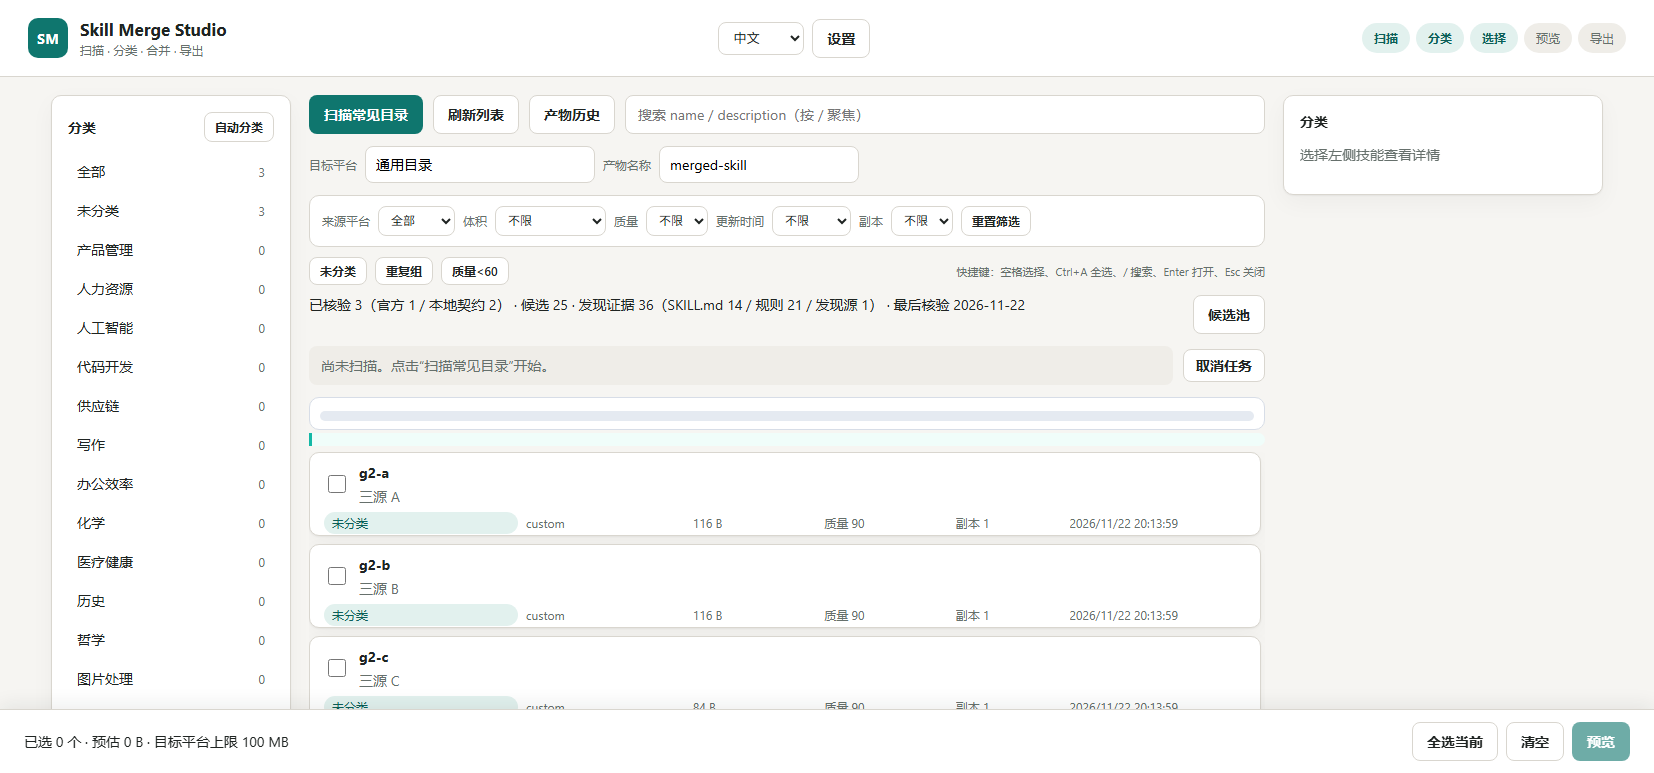
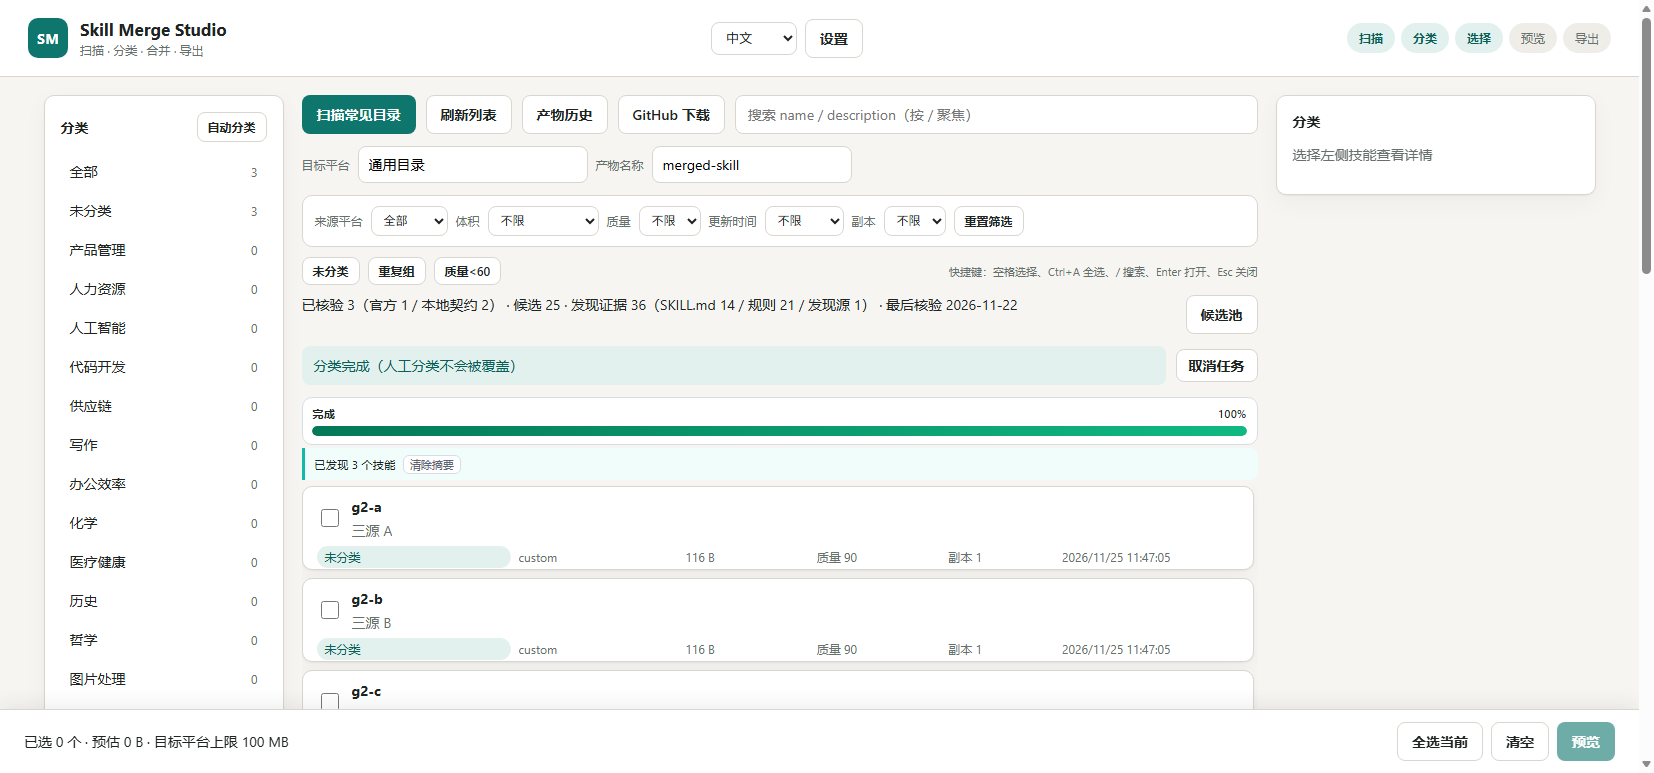
更新文档与截图为 GitHub 功能加入后的最新版本
- docs/images 四张截图替换为含 GitHub 下载入口的最新界面
- README 增加 GitHub 搜索/下载/检查更新说明与边界
- README 测试结果更新为 2026-11-25 复跑：305 passed / 3 failed / 3 skipped / 3 deselected
- project/README.txt 补充 GitHub 演示步骤与 API 端点

diff --git a/README.md b/README.md
@@ -5,6 +5,8 @@
 
 本地优先：服务只监听 `127.0.0.1`；运行时不依赖任何第三方 Python 包（标准库 + SQLite + 原生 ESM 前端）。
 
+内置 GitHub 只读客户端：按项目名搜索、查看本周 / 本月最热推荐，一键下载 zipball 并安全解压；下载后记录远端基准，再次打开弹窗时手动检查更新。
+
 ![选择与合并](docs/images/02b-selected.png)
 
 ## 实测能力
@@ -21,8 +23,16 @@
 | 历史 / 撤销 / 重建 | 撤销把文件移入 `.trash` 并做哈希校验；修改源文件后重建，输出章节级 diff |
 | 安全默认 | 无会话令牌访问 API 返回 401；Host / Origin / CSRF 校验；CSP 限制内联脚本 |
 
-自动化测试：`294 passed / 3 failed / 3 skipped / 3 deselected`。
+自动化测试（2026-11-25 在当前源码上复跑）：`305 passed / 3 failed / 3 skipped / 3 deselected`。
 3 个失败均为需求追踪测试里硬编码的旧条数（需求 spec 已从 341 条增至 361 条），不涉及运行功能。
+
+## GitHub 搜索与下载
+
+- 搜索：`POST /api/github/search`，按项目名 / 描述 / topic 查询仓库。
+- 推荐：`POST /api/github/trending`，本周 / 本月创建的 Skill 仓库按 stars 降序。
+- 下载：`POST /api/github/download`，zipball 解压到 `data/downloads/<sha 前缀>`，阻断绝对路径与 `..` 穿越，并识别 `SKILL.md`。
+- 检查更新：`POST /api/github/check-update`，对比远端 commit / release / pushed_at，仅在打开下载弹窗时手动触发。
+- 边界：下载目录需要重新扫描才会进入索引；不会在后台自动更新已索引的 Skill。
 
 ## 快速开始
 
@@ -94,6 +104,8 @@ project/
 
 ## 已知限制
 
+- GitHub 搜索 / 下载 / 检查更新需要能访问 `api.github.com`；仓库内单元测试使用 mock transport，真实网络与限流未做端到端验收。
+- 从 GitHub 下载的仓库需要重新扫描入索引；工具不会后台自动更新已索引的 Skill。
 - `install` 模式只有单元测试覆盖"不覆盖已有文件"，未在真实平台目录实测。
 - AI 分类 / 语义复核默认关闭，需要自备 OpenAI 兼容端点；密钥不落盘。
 - 平台规则中多数为候选证据等级（启发式），只有 Claude 规则经过官方文档核验。
